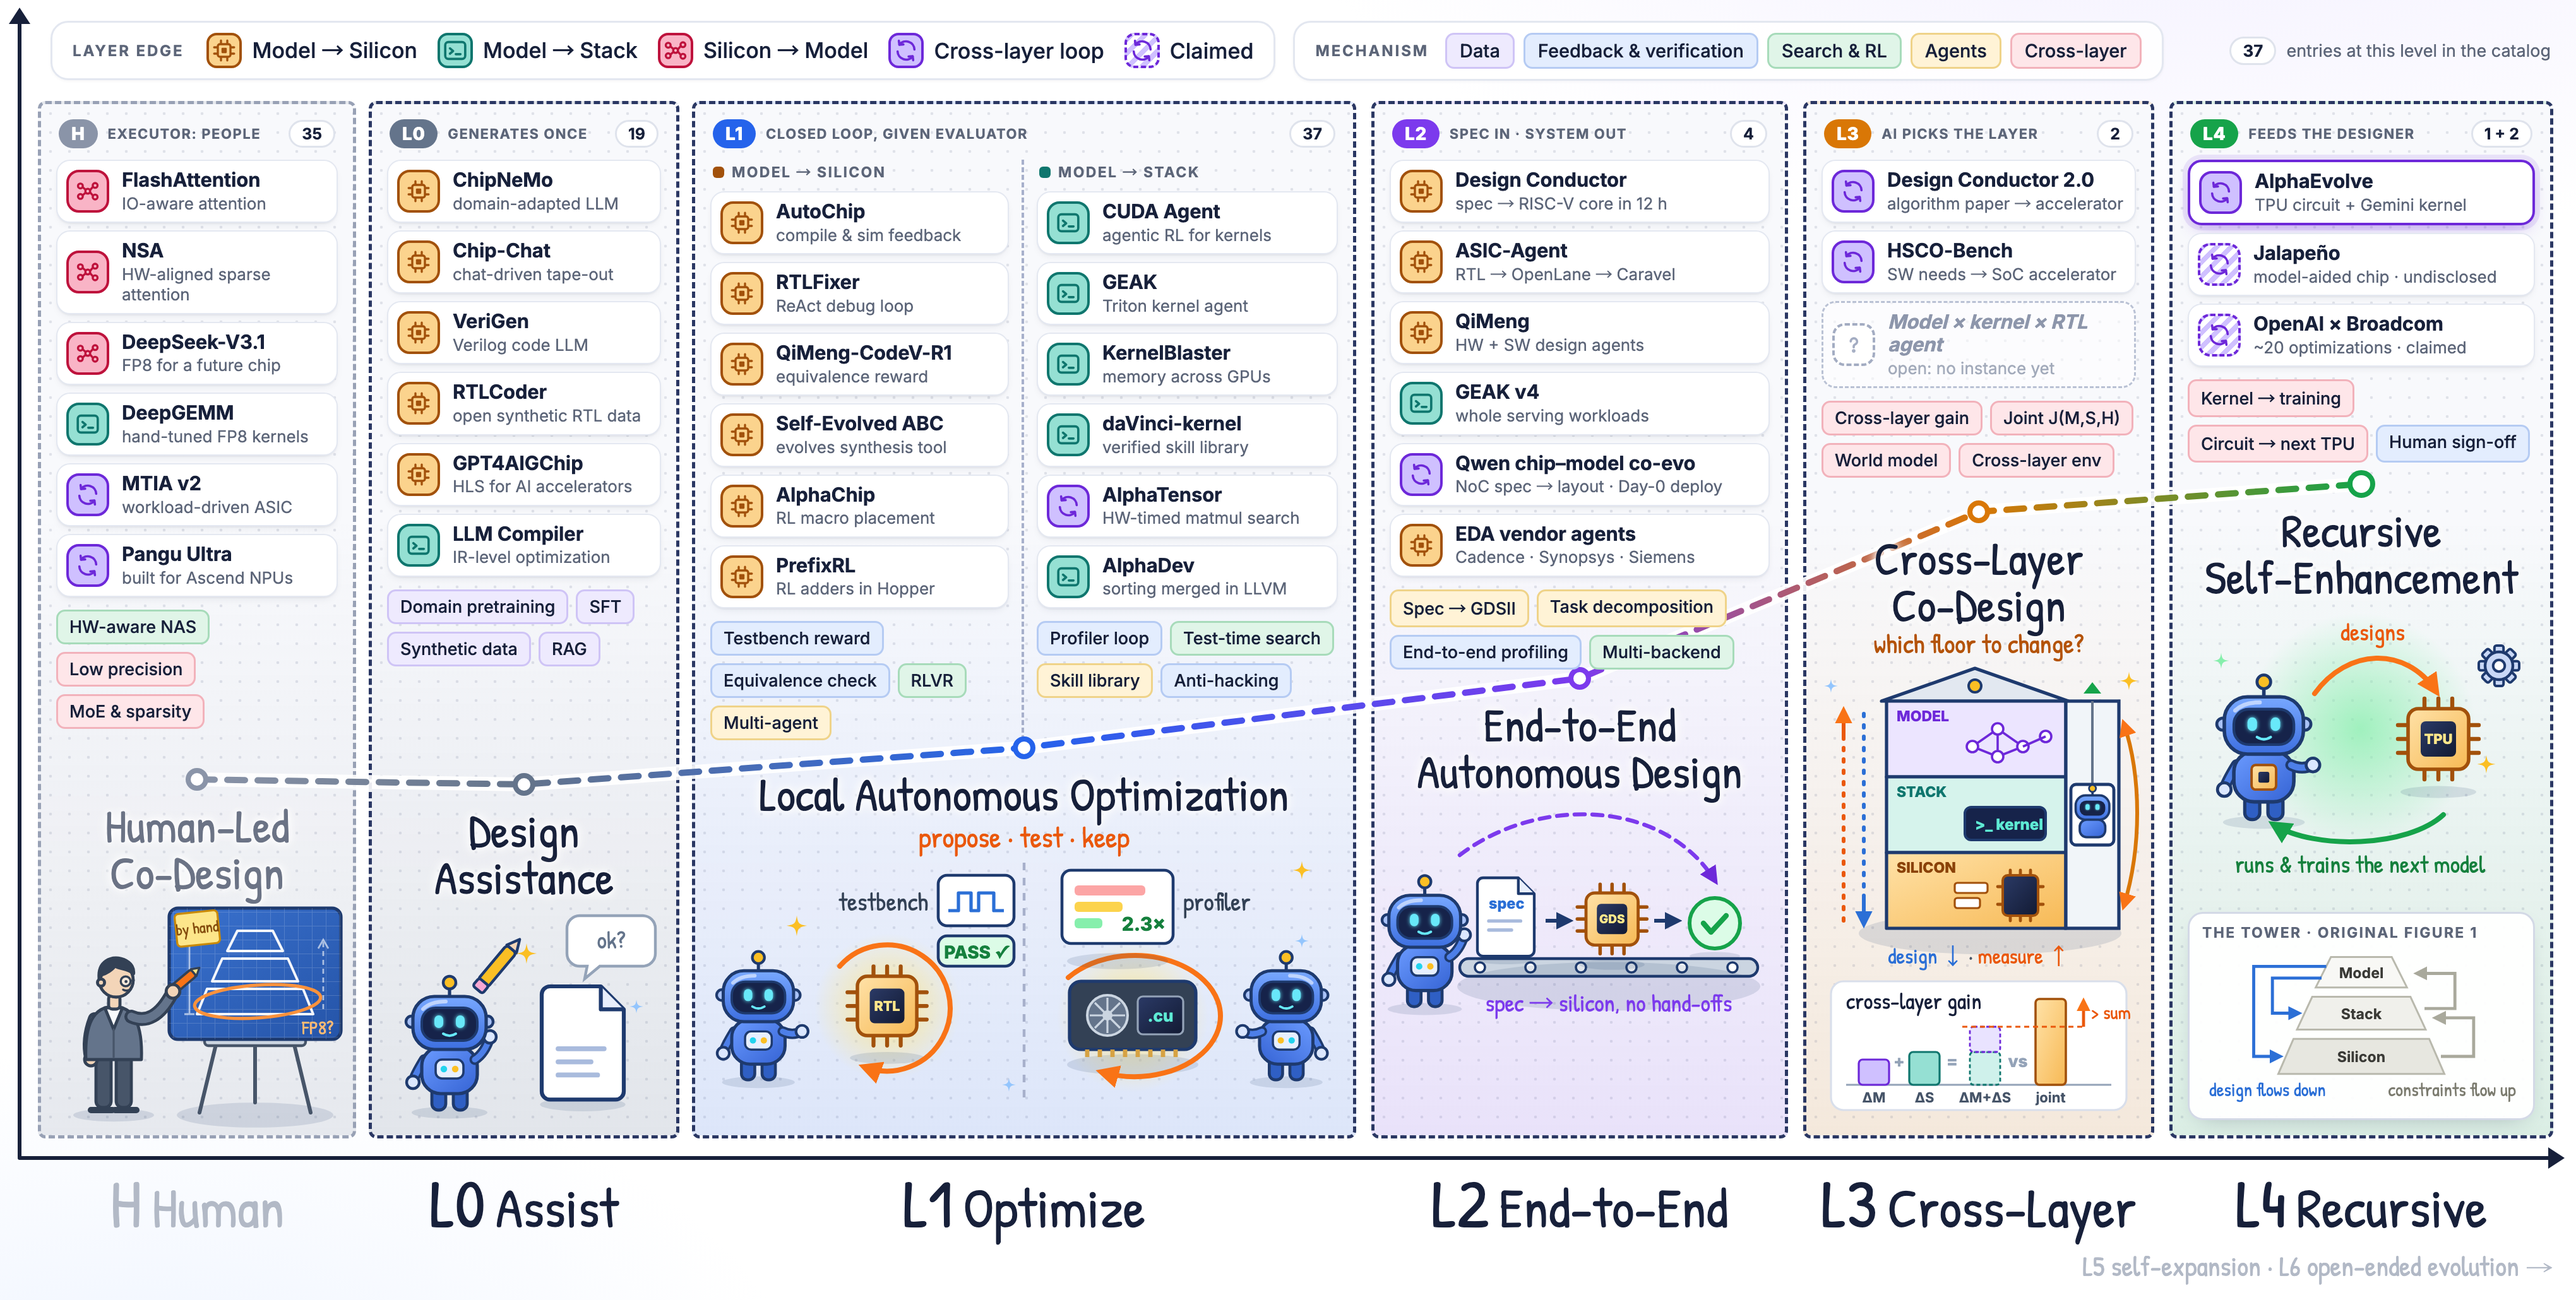
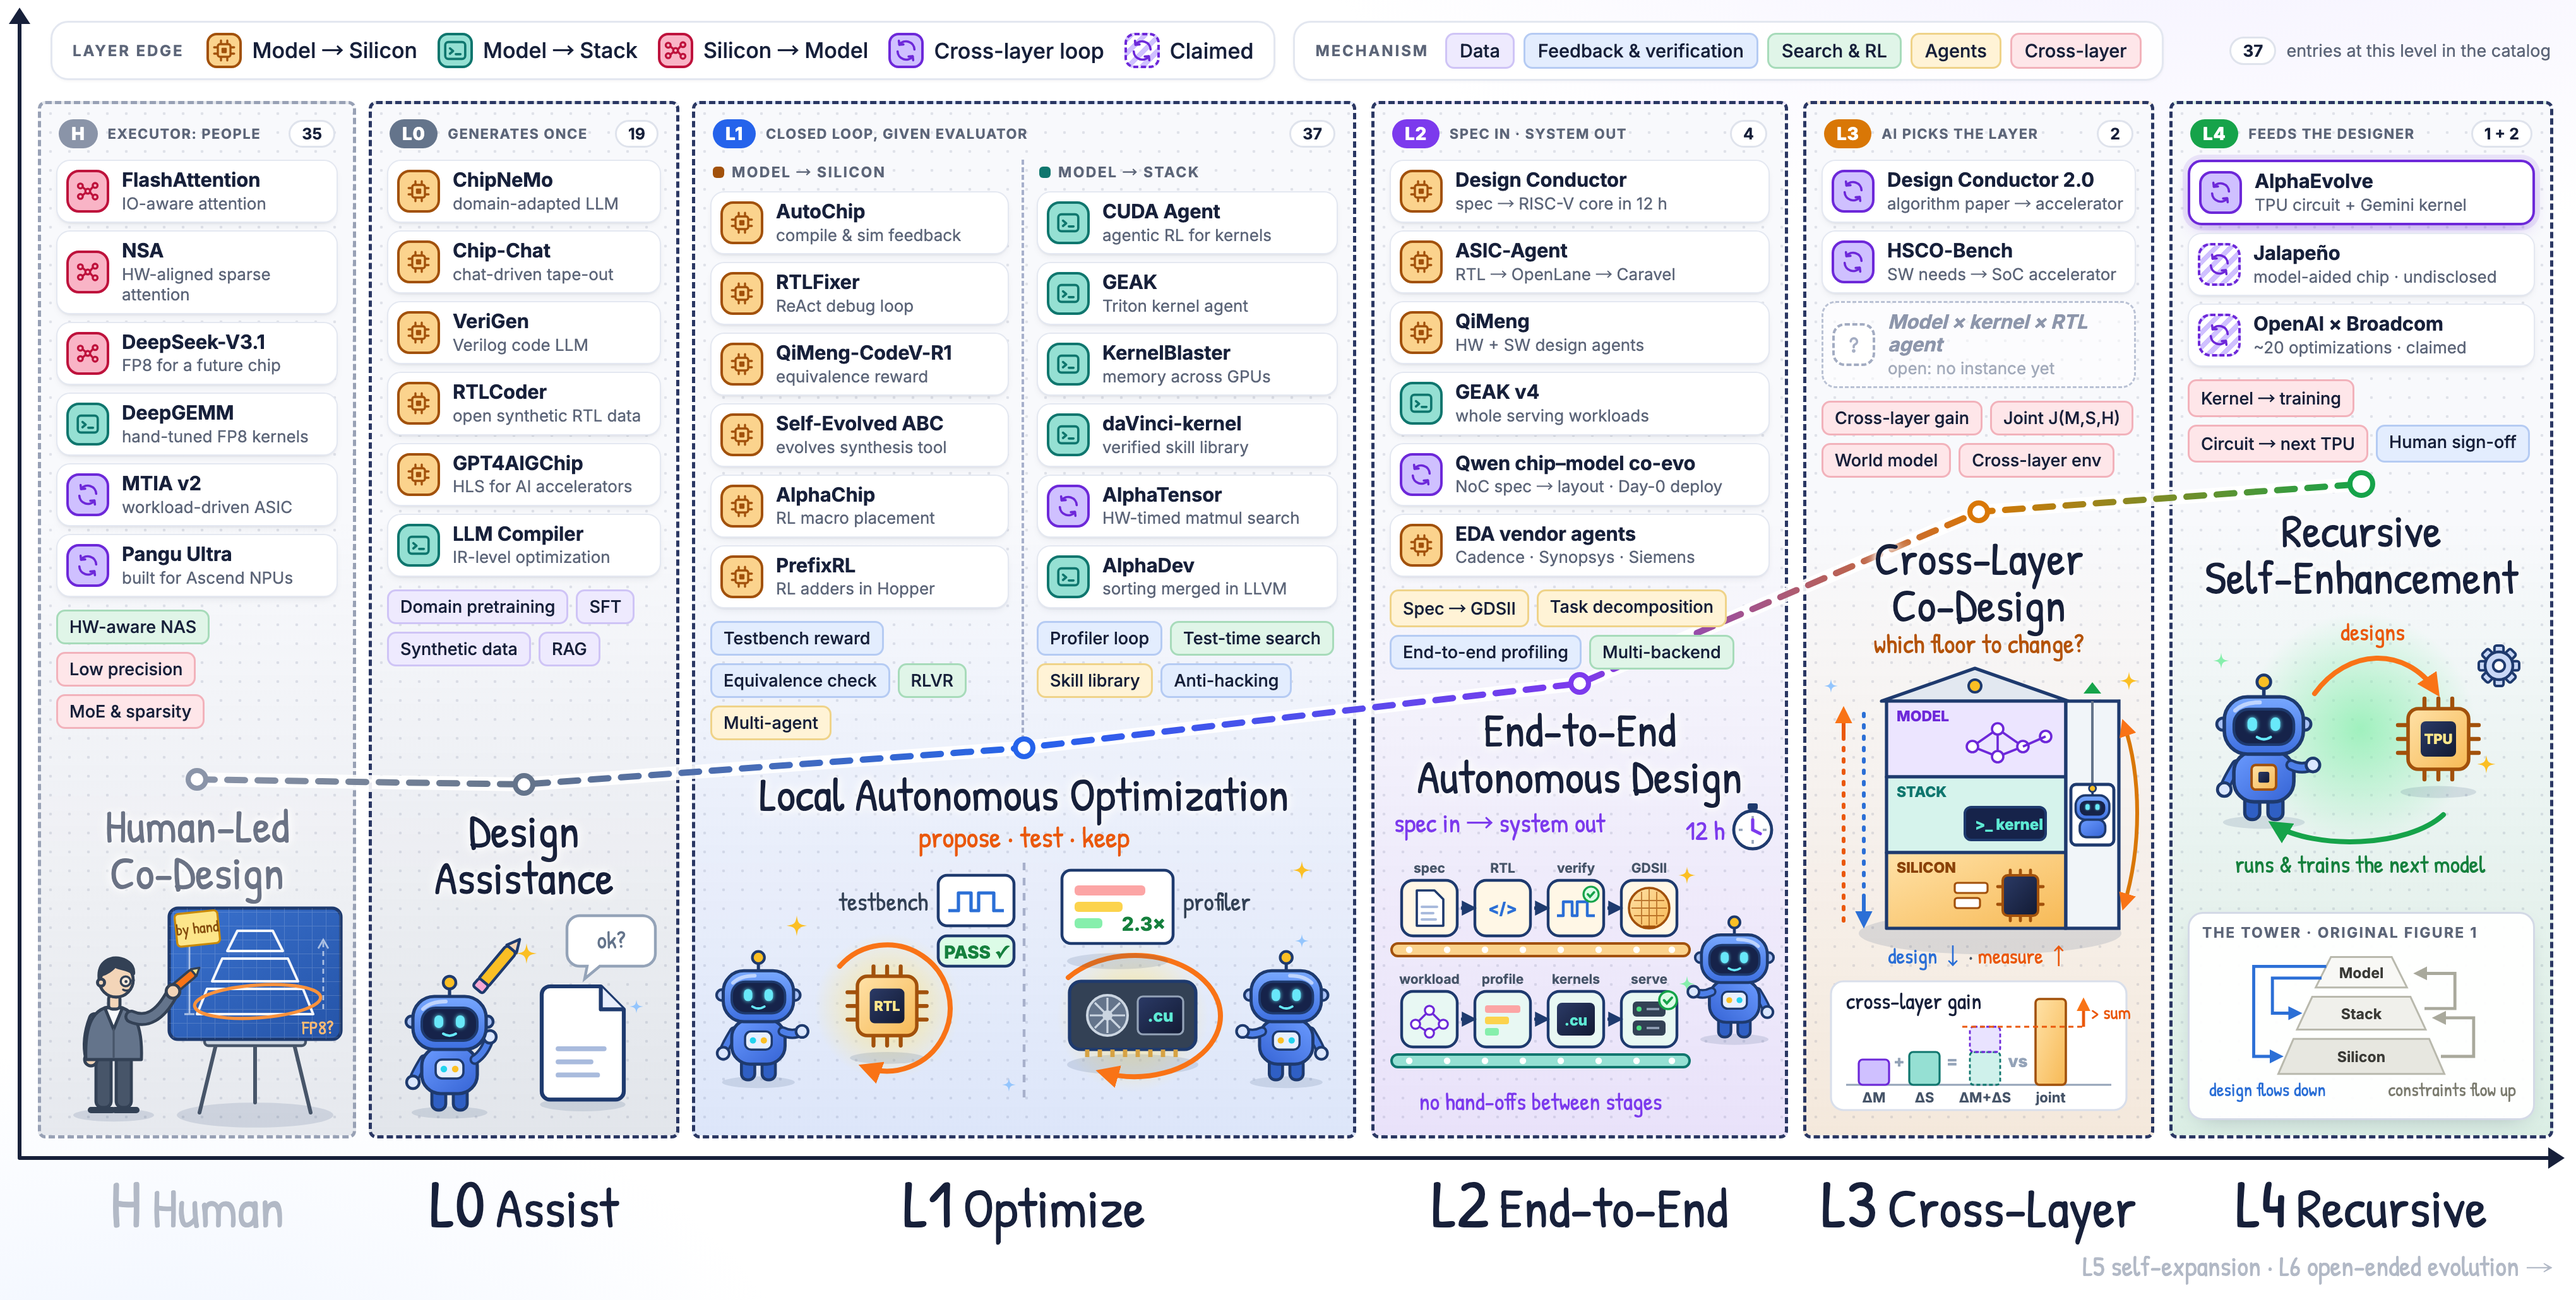
Redraw the L2 scene in Figure 1 as a two-lane autonomous factory
Silicon lane spec → RTL → verify → GDSII and stack lane workload →
profile → kernels → serve, color-coded by layer edge, supervised by one
robot with a 12-hour clock.

Changed region(s): [[0.498, 0.4971, 0.6848, 0.8699], [0.6848, 0.435, 0.7159, 0.466]]

diff --git a/scripts/figures/overview.html b/scripts/figures/overview.html
@@ -189,7 +189,7 @@ const COLS = [
     chips: [['k-fb', 'Testbench reward'], ['k-fb', 'Equivalence check'], ['k-search', 'RLVR'], ['k-agent', 'Multi-agent']],
     chips2: [['k-fb', 'Profiler loop'], ['k-search', 'Test-time search'], ['k-agent', 'Skill library'], ['k-fb', 'Anti-hacking']] },
   { id: 'L2', x: 1086, w: 330, color: '#7c3aed', floor: 'rgba(124,58,237,.12)', pill: 'L2', sub: 'Spec in · system out', count: '4',
-    title: 'End-to-End<br>Autonomous Design', rise: 80, scene: 'e2e',
+    title: 'End-to-End<br>Autonomous Design', rise: 6, scene: 'e2e',
     items: [
       ['ms', 'Design Conductor', 'spec → RISC-V core in 12 h'],
       ['ms', 'ASIC-Agent', 'RTL → OpenLane → Caravel'],
@@ -411,19 +411,45 @@ const SCENES = {
     <text x="376" y="72" font-family="Patrick Hand" font-size="20" fill="#334155">profiler</text>
     ${sparkle(70, 84, 0.9)} ${sparkle(238, 210, 0.6, '#93c5fd')} ${sparkle(470, 40, 0.8)} ${sparkle(470, 96, 0.6, '#93c5fd')}
   </svg>`,
-  e2e: () => `<svg width="310" height="180" viewBox="0 0 310 180">
-    <rect x="60" y="128" width="236" height="14" rx="7" fill="#cbd5e1" stroke="${NAVY}" stroke-width="2.2"/>
-    ${[76, 116, 156, 196, 236, 276].map(c => `<circle cx="${c}" cy="135" r="4" fill="#fff" stroke="${NAVY}" stroke-width="1.8"/>`).join('')}
-    ${shadow(178, 150, 120)}
-    ${doc(74, 64, 0.9, 'spec', 2)}
-    <path d="M128 98h18" stroke="${NAVY}" stroke-width="3" marker-end="url(#ah-n)"/>
-    ${chip(160, 76, 0.86, 'GDS')}
-    <path d="M214 98h18" stroke="${NAVY}" stroke-width="3" marker-end="url(#ah-n)"/>
-    ${badge(262, 100)}
-    ${robot(-2, 70, 0.98, { left: 'down', right: 'up' })}
-    <path d="M60 46 C 120 0, 220 0, 262 66" fill="none" stroke="#7c3aed" stroke-width="3.2" stroke-dasharray="8 6" stroke-linecap="round" marker-end="url(#ah-v)"/>
-    <text x="178" y="170" text-anchor="middle" font-family="Patrick Hand" font-size="19" fill="#7c3aed">spec → silicon, no hand-offs</text>
-  </svg>`,
+  e2e: () => {
+    const XS = [14, 72, 130, 188];
+    const tile = (x, y, fill, inner, label) => `
+      <text x="${x + 22}" y="${y - 6}" text-anchor="middle" font-family="Inter" font-weight="700" font-size="10.5" fill="#475569">${label}</text>
+      <g transform="translate(${x},${y})"><rect width="44" height="44" rx="9" fill="${fill}" stroke="${NAVY}" stroke-width="2.2"/>${inner}</g>`;
+    const arrows = (y) => XS.slice(0, 3).map(x => `<path d="M${x + 47} ${y} h9" stroke="${NAVY}" stroke-width="2.6" marker-end="url(#ah-n)"/>`).join('');
+    const belt = (y, fill, ink) => `<rect x="6" y="${y}" width="236" height="10" rx="5" fill="${fill}" stroke="${ink}" stroke-width="2"/>`
+      + [20, 50, 80, 110, 140, 170, 200, 228].map(c => `<circle cx="${c}" cy="${y + 5}" r="2.6" fill="#fff"/>`).join('');
+    const A = 62, B = 150, SI = '#fff7e6', ST = '#e8f8f3';
+    return `<svg width="310" height="250" viewBox="0 0 310 250">
+    <text x="8" y="24" font-family="Patrick Hand" font-size="21" fill="#7c3aed">spec in → system out</text>
+    <g transform="translate(292,22)">
+      <circle r="15" fill="#fff" stroke="${NAVY}" stroke-width="2.4"/>
+      <path d="M0 -11v3M11 0h-3M0 11v-3M-11 0h3" stroke="#94a3b8" stroke-width="1.8"/>
+      <path d="M0 0V-8M0 0l6 3" stroke="#7c3aed" stroke-width="2.6" stroke-linecap="round"/>
+      <rect x="-4" y="-21" width="8" height="5" rx="1.5" fill="${NAVY}"/>
+    </g>
+    <text x="270" y="30" text-anchor="end" font-family="Patrick Hand" font-size="21" fill="#7c3aed">12 h</text>
+    <!-- lane A: Model → Silicon -->
+    ${belt(A + 50, '#fbd38d', '#a2510b')}
+    ${tile(XS[0], A, SI, `<path d="M12 8h14l7 7v21H12z" fill="#fff" stroke="${NAVY}" stroke-width="1.8" stroke-linejoin="round"/><path d="M16 21h12M16 26h9M16 31h11" stroke="#a9bbdd" stroke-width="2" stroke-linecap="round"/>`, 'spec')}
+    ${tile(XS[1], A, SI, `<text x="22" y="27" text-anchor="middle" font-family="Inter" font-weight="800" font-size="13" fill="#2b6fd6">&lt;/&gt;</text>`, 'RTL')}
+    ${tile(XS[2], A, SI, `<path d="M7 28h5v-11h7v11h4v-11h8v11h6" fill="none" stroke="#2b6fd6" stroke-width="2.2" stroke-linejoin="round"/><circle cx="34" cy="11" r="6" fill="#dcfce7" stroke="#16a34a" stroke-width="1.6"/><path d="M31.4 11l1.8 2 3.2-3.6" stroke="#16a34a" stroke-width="1.8" fill="none" stroke-linecap="round"/>`, 'verify')}
+    ${tile(XS[3], A, SI, `<circle cx="22" cy="22" r="16" fill="url(#gChip)" stroke="#a2510b" stroke-width="1.8"/><path d="M10 16h24M8 22h28M10 28h24M16 9v26M22 7v30M28 9v26" stroke="#a2510b" stroke-width=".9" opacity=".7"/><path d="M17 37h10" stroke="#a2510b" stroke-width="2.4"/>`, 'GDSII')}
+    ${arrows(A + 22)}
+    ${sparkle(240, 58, 0.75)}
+    <!-- lane B: Model → Stack -->
+    ${belt(B + 50, '#95e0d3', '#0f766e')}
+    ${tile(XS[0], B, ST, `<g stroke="#6d28d9" stroke-width="1.6" fill="#fff"><path d="M11 26 L22 15 L33 26 M11 26 L22 33 L33 26" fill="none"/><circle cx="11" cy="26" r="3.6"/><circle cx="22" cy="15" r="3.6"/><circle cx="22" cy="33" r="3.6"/><circle cx="33" cy="26" r="3.6"/></g>`, 'workload')}
+    ${tile(XS[1], B, ST, `<rect x="8" y="11" width="28" height="6" rx="2" fill="#fca5a5"/><rect x="8" y="20" width="19" height="6" rx="2" fill="#fcd34d"/><rect x="8" y="29" width="11" height="6" rx="2" fill="#86efac"/>`, 'profile')}
+    ${tile(XS[2], B, ST, `<rect x="7" y="9" width="30" height="26" rx="4" fill="url(#gDie)"/><text x="22" y="27" text-anchor="middle" font-family="Inter" font-weight="800" font-size="11.5" fill="#5eead4">.cu</text>`, 'kernels')}
+    ${tile(XS[3], B, ST, `<rect x="9" y="8" width="26" height="12" rx="3" fill="#334155"/><rect x="9" y="23" width="26" height="12" rx="3" fill="#334155"/><circle cx="14" cy="14" r="2" fill="#4ade80"/><circle cx="14" cy="29" r="2" fill="#4ade80"/><path d="M20 14h10M20 29h10" stroke="#94a3b8" stroke-width="1.8"/><circle cx="37" cy="7" r="7" fill="#dcfce7" stroke="#16a34a" stroke-width="1.8"/><path d="M33.8 7l2.2 2.4 4-4.4" stroke="#16a34a" stroke-width="2" fill="none" stroke-linecap="round"/>`, 'serve')}
+    ${arrows(B + 22)}
+    ${sparkle(240, B - 6, 0.7, '#86efac')}
+    <!-- supervisor -->
+    ${robot(246, 98, 0.9, { left: 'down', right: 'forward', flip: true })}
+    <text x="124" y="244" text-anchor="middle" font-family="Patrick Hand" font-size="19" fill="#7c3aed">no hand-offs between stages</text>
+  </svg>`;
+  },
   cross: () => `<svg width="262" height="386" viewBox="0 0 262 386">
     <text x="131" y="18" text-anchor="middle" font-family="Patrick Hand" font-size="21" fill="#b45309">which floor to change?</text>
     ${shadow(140, 240, 104)}
